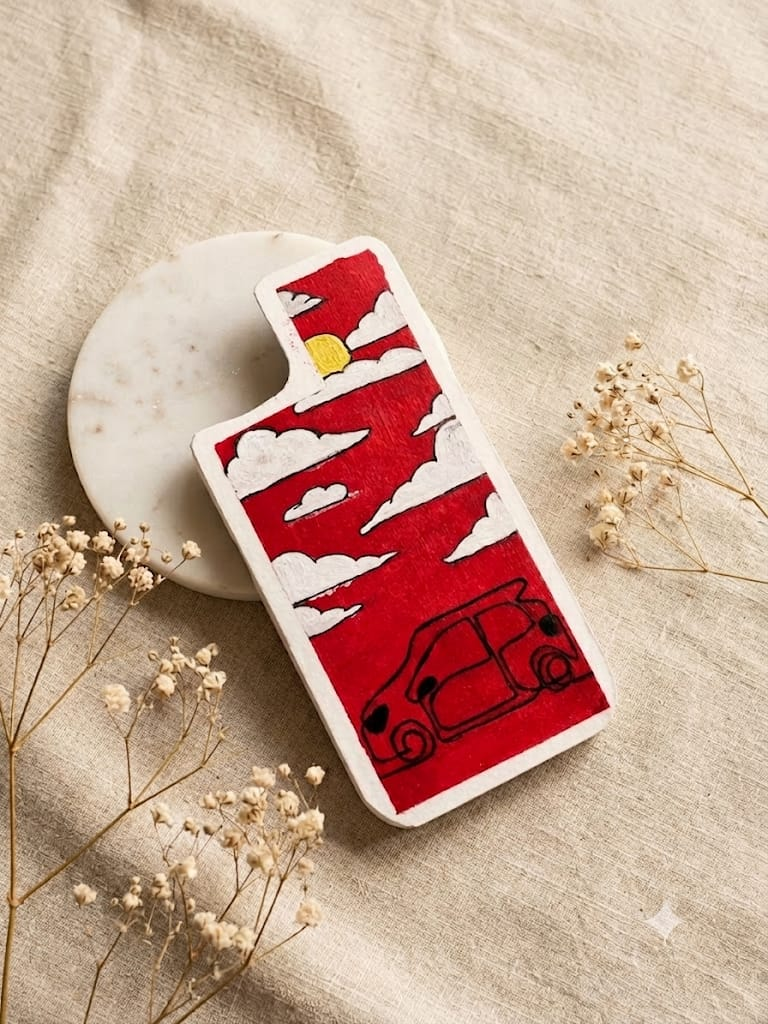
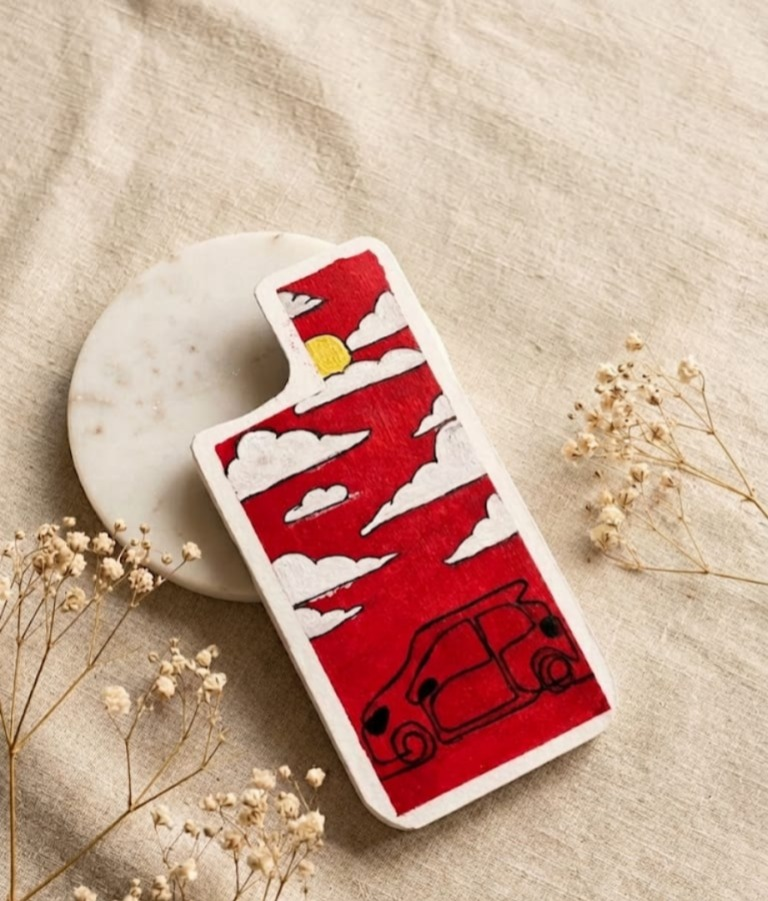
Added phone case product and styling

diff --git a/products-data.js b/products-data.js
@@ -141,6 +141,20 @@ window.PRODUCTS_DATA = {
       care: 'Avoid heavy moisture'
     }
   },
+  //phonecase
+  'phonecase-sunset-ride': {
+    id: 'phonecase-sunset-ride',
+    title: 'Sunset Ride',
+    category: 'Phone Cases',
+    price: 220.00,
+    image: 'images/pc.01.png',
+    description: 'Hand-painted phone case inspired by sunset skies and vintage journeys.',
+    details: {
+        material: 'Watercolour paper 500gsm',
+        compatibility: 'Customisable for most phone models',
+        care: 'Wipe with soft dry cloth'
+    }
+},
   // Clay Work
   'clay-gris': {
     id: 'clay-gris',
@@ -233,6 +247,7 @@ window.PRODUCTS_DATA = {
       size: 'Varies by piece',
       care: 'Clean with soft cloth, avoid harsh chemicals'
     }
+    
   }
 };
 

diff --git a/phonecase.html b/phonecase.html
@@ -29,16 +29,17 @@
     <h1 class="section-title">Phone Cases</h1>
     <div class="grid">
       <article class="card">
-        <img src="images/pc.01.png" alt="Phone Case" class="card-img">
-        <h3 class="card-title">Sunset ride</h3>
+        <img src="images/pc.01.png" alt="Phone Case" class="card-img phonecase-img">
+        <h3 class="card-title">Sunset Ride</h3>
         <p class="card-sub">₹220.00</p>
         <div class="card-actions">
-          <a class="link" href="#">Details</a>
-          <button class="add-to-cart" data-id="phonecase-1" data-name="Resin Phone Case — Pearl" data-price="22.00">Add</button>
+          <a class="link" href="product-detail.html?id=phonecase-sunset-ride">Details</a>
+          
+          <button class="add-to-cart" data-id="phonecase-1" data-name="Sunset Ride Phone Case" data-price="220.00">Add</button>
         </div>
       </article>
     </div>
-  </main>
+   </main>
 
   <footer class="site-footer">
     <div class="container"><small>© 2025 Handmade Minimal</small></div>

diff --git a/style.css b/style.css
@@ -140,6 +140,13 @@ body{
   border-radius:8px;
   background:#eee;
 }
+.phonecase-img{
+    width: 100%;
+    height: 320px;
+    object-fit: contain;
+    background: #f5f5f5;
+    padding: 10px;
+}
 .card-title{ margin:0; font-size:1rem; font-weight:600 }
 .card-sub{ margin:0; color:var(--muted); font-size:0.92rem }
 .card-actions{ display:flex; gap:10px; margin-top:auto; align-items:center }